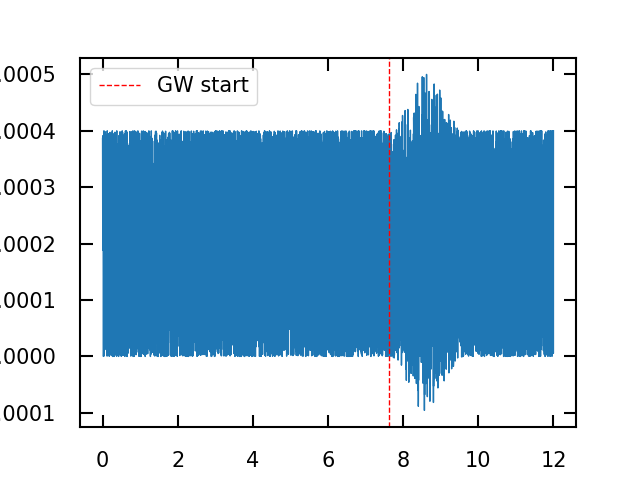
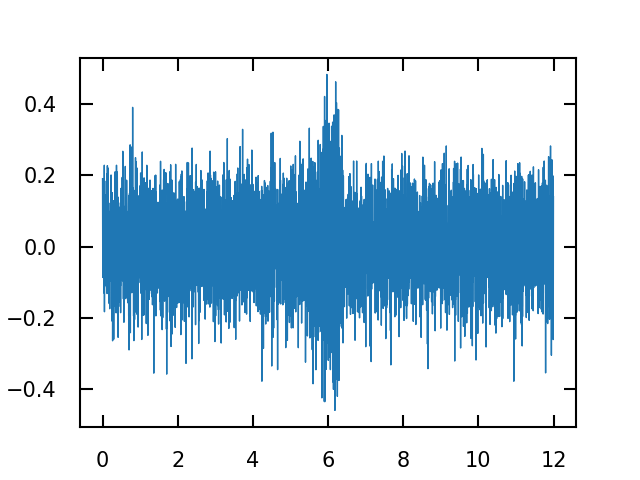
GW signal is incorporated via phase change

diff --git a/interferometer.py b/interferometer.py
@@ -2,70 +2,151 @@ import numpy as np
 
 class Interferometer:
     def __init__(self, length=10, amplitude=1, frequency=10,
-                 speed_of_signal=1, duration=8, sampling_rate=1024):
+                 speed_of_signal=1, duration=8, sampling_rate=1024,
+                 phase_bias=np.pi / 2, phase_noise_std=0.05,
+                 gw_strain_amplitude=1e-3, target_snr=None):
 
         self.length = length
         self.amplitude = amplitude
         self.frequency = frequency
         self.speed_of_signal = speed_of_signal
+        self.phase_bias = phase_bias
+        self.phase_noise_std = phase_noise_std
+        self.gw_strain_amplitude = gw_strain_amplitude
+        self.target_snr = target_snr
 
         self.duration = duration
         self.sampling_rate = sampling_rate
 
-        self.time = np.linspace(0, duration, duration * sampling_rate)
+        self.time = np.linspace(0, duration, duration * sampling_rate, endpoint=False)
 
     def generate_delta_phi(self): 
-        random_shift = np.random.uniform(-1, 1, self.duration * self.sampling_rate) 
-        return 2 * np.pi * self.frequency * (random_shift / self.speed_of_signal)
-    
-    def generate_fields(self):
-        omega = 2 * np.pi * self.frequency
+        return np.random.normal(
+            loc=0.0,
+            scale=self.phase_noise_std,
+            size=self.duration * self.sampling_rate,
+        )
 
-        delta_phi = self.generate_delta_phi()
-
-        E1 = self.amplitude * np.exp(1j * omega * self.time)
-        E2 = self.amplitude * np.exp(1j * (omega * self.time + delta_phi))
-
-        return E1, E2
-
-    def gw_signal(self, noise_template):
-        N = len(noise_template)
+    def gw_signal(self, strain_amplitude=None, start_idx=None):
+        N = len(self.time)
         dt = self.time[1] - self.time[0]
 
-        # --- GW duration (2 sec) ---
         gw_duration = 2
         gw_samples = int(gw_duration / dt)
+        if start_idx is None:
+            start_idx = np.random.randint(0, N - gw_samples)
 
-        # --- Random start index ---
-        start_idx = np.random.randint(0, N - gw_samples)
-
-        # --- Time array for GW ---
         t_gw = np.linspace(0, gw_duration, gw_samples)
 
-        # --- Chirp signal (toy model) ---
-        f0 = 5     # start freq
-        f1 = 50    # end freq
+        f0 = 5
+        f_merger = 80
+        merger_time = 0.8 * gw_duration
 
-        # Linear chirp phase
-        phase = 2 * np.pi * (f0 * t_gw + 0.5 * (f1 - f0) / gw_duration * t_gw**2)
+        phase = np.zeros_like(t_gw)
+        inspiral = t_gw <= merger_time
+        ringdown = ~inspiral
 
-        # Amplitude envelope (smooth turn-on/off)
-        envelope = np.sin(np.pi * t_gw / gw_duration)**2
+        t_inspiral = t_gw[inspiral]
+        phase[inspiral] = 2 * np.pi * (
+            f0 * t_inspiral
+            + 0.5 * (f_merger - f0) / merger_time * t_inspiral**2
+        )
 
-        gw = 0.0001 * envelope * np.sin(phase)  # small amplitude
+        phase_merger = phase[inspiral][-1]
+        f_ringdown = 0.6 * f_merger
+        tau = 0.08
+        t_ringdown = t_gw[ringdown] - merger_time
+        phase[ringdown] = phase_merger + 2 * np.pi * f_ringdown * t_ringdown
 
-        # --- Inject into template ---
-        injected = noise_template.copy()
-        injected[start_idx:start_idx + gw_samples] += gw
+        envelope = np.zeros_like(t_gw)
+        envelope[inspiral] = (t_inspiral / merger_time) ** 1.5
+        envelope[ringdown] = np.exp(-t_ringdown / tau)
 
-        return injected, start_idx
+        if strain_amplitude is None:
+            strain_amplitude = self.gw_strain_amplitude
 
-    def setup_interferometer(self, inject_gw=False):
-        E1, E2 = self.generate_fields()
+        strain = np.zeros(N)
+        strain[start_idx:start_idx + gw_samples] = (
+            strain_amplitude * envelope * np.sin(phase)
+        )
+
+        return strain, start_idx, gw_samples
+
+    def gw_to_delta_phi(self, strain):
+        wavelength = self.speed_of_signal / self.frequency
+        delta_length = 0.5 * self.length * strain
+        return (4 * np.pi / wavelength) * delta_length
+
+    def detector_output(self, delta_phi_1, delta_phi_2):
+        omega = 2 * np.pi * self.frequency
+        E1 = self.amplitude * np.exp(1j * (omega * self.time + delta_phi_1))
+        E2 = self.amplitude * np.exp(1j * (omega * self.time + delta_phi_2))
         intensity = np.abs(E1 + E2)**2
+        return intensity - np.mean(intensity)
+
+    def measure_snr(self, noise_output, signal_response, start_idx, gw_samples):
+        noise_segment = np.concatenate((
+            noise_output[:start_idx],
+            noise_output[start_idx + gw_samples:],
+        ))
+        noise_std = np.std(noise_segment)
+        signal_rms = np.sqrt(
+            np.mean(signal_response[start_idx:start_idx + gw_samples] ** 2)
+        )
+        if noise_std == 0:
+            return np.inf
+        return signal_rms / noise_std
+
+    def generate_fields(self, inject_gw=False, gw_arm=2):
+        omega = 2 * np.pi * self.frequency
+        delta_phi_1 = np.zeros_like(self.time)
+        delta_phi_2 = self.phase_bias + self.generate_delta_phi()
+        start_idx = None
+        gw_samples = None
 
         if inject_gw:
-            intensity, start_idx = self.gw_signal(intensity)
-            return intensity, start_idx
+            strain, start_idx, gw_samples = self.gw_signal()
+            if self.target_snr is not None:
+                noise_output = self.detector_output(delta_phi_1, delta_phi_2)
+                gw_delta_phi = self.gw_to_delta_phi(strain)
 
-        return intensity
+                if gw_arm == 1:
+                    signal_response = (
+                        self.detector_output(delta_phi_1 + gw_delta_phi, delta_phi_2)
+                        - noise_output
+                    )
+                else:
+                    signal_response = (
+                        self.detector_output(delta_phi_1, delta_phi_2 + gw_delta_phi)
+                        - noise_output
+                    )
+
+                current_snr = self.measure_snr(
+                    noise_output, signal_response, start_idx, gw_samples
+                )
+                if np.isfinite(current_snr) and current_snr > 0:
+                    strain *= self.target_snr / current_snr
+
+            gw_delta_phi = self.gw_to_delta_phi(strain)
+
+            if gw_arm == 1:
+                delta_phi_1 += gw_delta_phi
+            else:
+                delta_phi_2 += gw_delta_phi
+
+        E1 = self.amplitude * np.exp(1j * (omega * self.time + delta_phi_1))
+        E2 = self.amplitude * np.exp(1j * (omega * self.time + delta_phi_2))
+
+        return E1, E2, start_idx, gw_samples
+
+    def setup_interferometer(self, inject_gw=False, gw_arm=2):
+        E1, E2, start_idx, gw_samples = self.generate_fields(
+            inject_gw=inject_gw, gw_arm=gw_arm
+        )
+        intensity = np.abs(E1 + E2)**2
+        detector_output = intensity - np.mean(intensity)
+
+        if inject_gw:
+            return detector_output, start_idx
+
+        return detector_output

diff --git a/play.py b/play.py
@@ -1,12 +1,10 @@
-from interferometer  import Interferometer
+from interferometer import Interferometer
 import matplotlib.pyplot as plt
 
-detector = Interferometer(amplitude=0.01, sampling_rate=512, duration=12)
+detector = Interferometer(amplitude=1, sampling_rate=512, duration=12, target_snr=1)
 
 signal, idx = detector.setup_interferometer(inject_gw=True)
 
 plt.plot(detector.time, signal)
-plt.axvline(detector.time[idx], color='r', linestyle='--', label="GW start")
-plt.legend()
 plt.savefig('Signal.png')
 plt.show()
